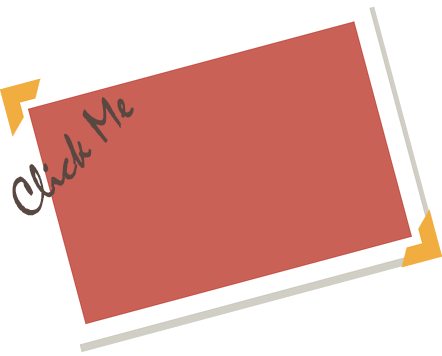
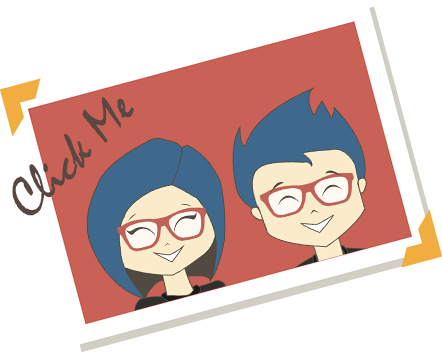
Added Geek and Nerd Images

Changed region(s): [[0.1765, 0.2472, 0.8529, 0.8961]]

diff --git a/index.html b/index.html
@@ -61,6 +61,7 @@
 				<div class="c12">
 					<h1><span class="geek">Geeks</span> vs. <span class="nerd">Nerds</span></h1>
 					<h2>Which One Are You</h2>
+					<img id="peekaboo" src="img/nerdgeek1.png" alt="geek peeking" />
 				</div>
 			</div> 
 		</div> 
@@ -145,10 +146,12 @@
 				<div class="row">
 					<div class="c6">
 						<h3 class="center_alignment"><span class="geek">Geek Traits</span></h3>
+						<img class="geeks" src="img/geekgirl.png" alt="geek girl" />
 					</div>
 
 					<div class="c6 end">
 						<h3 class="center_alignment"><span class="nerd">Nerd Traits</span></h3>
+						<img class="geeks" src="img/nerdboy2.png" alt="nerd boy" />
 					</div>
 				</div>
 

diff --git a/css/stylesheet.css b/css/stylesheet.css
@@ -41,6 +41,14 @@ p {
 }
 
 
+#peekaboo{
+	margin-top:40px;
+}
+
+.geeks{
+	width:35%;
+}
+
 /*-------------------SECTIONS--------------------------*/
 /*#section1 {
 	background-color: #ccbfae;
